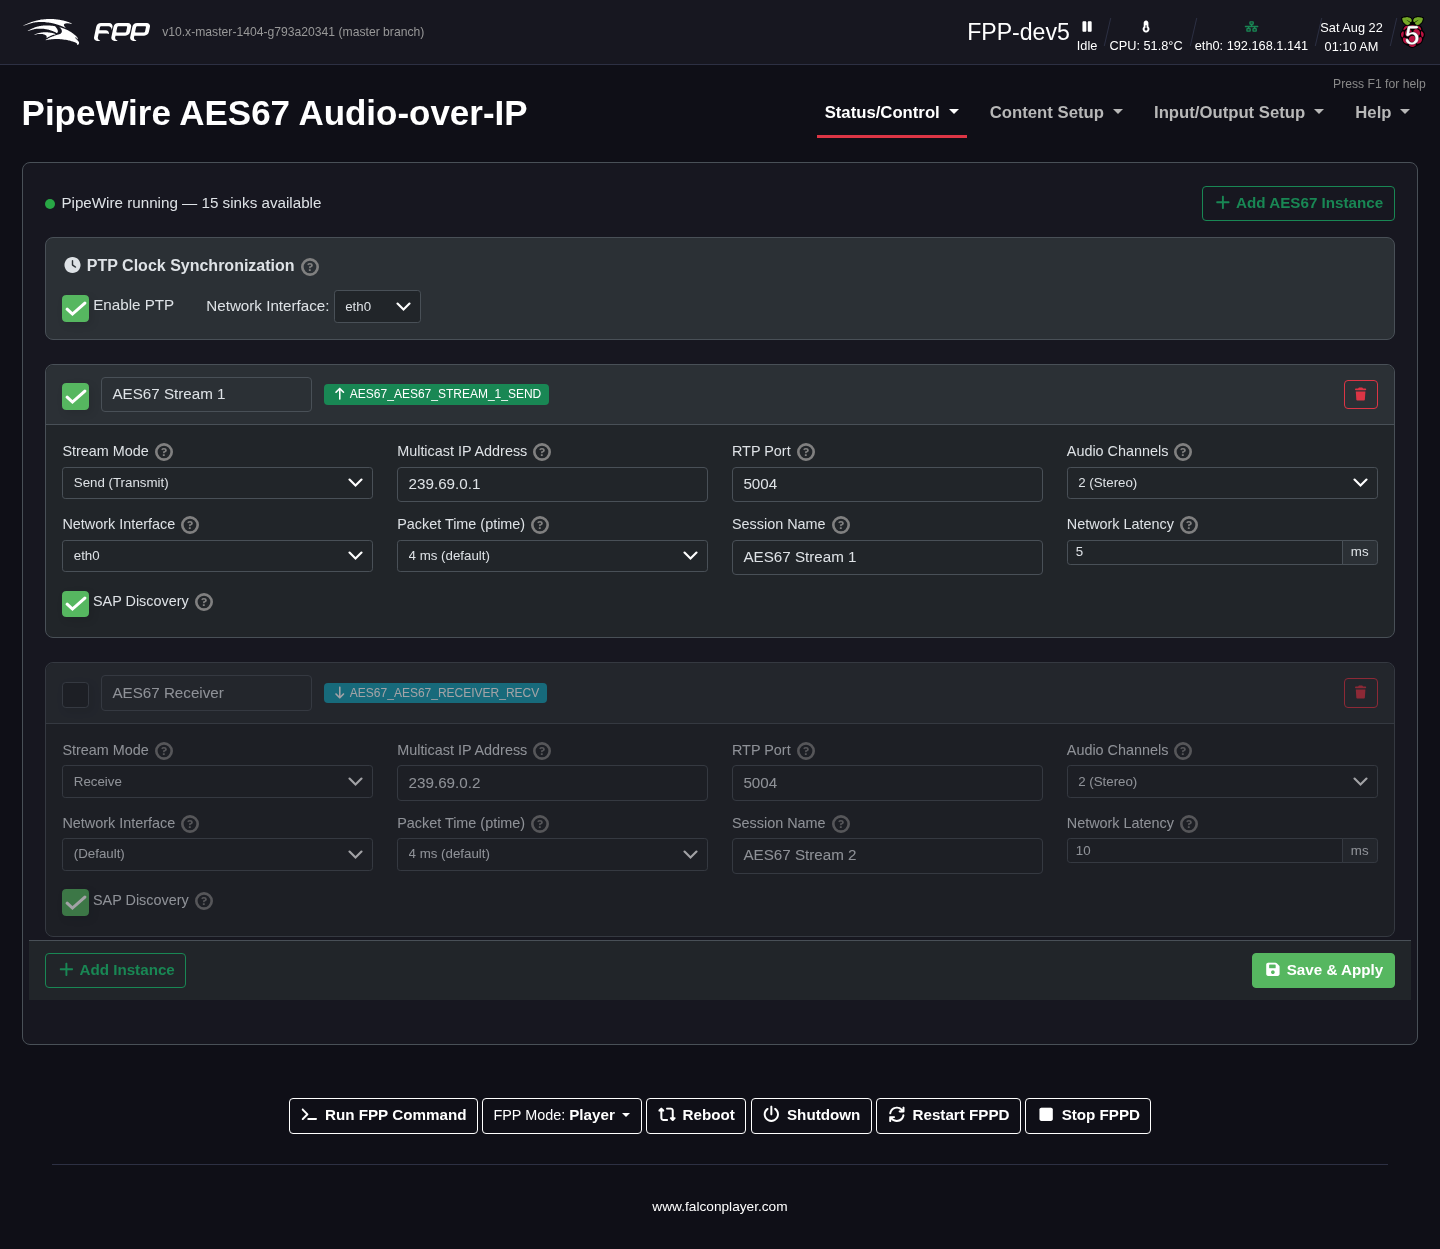
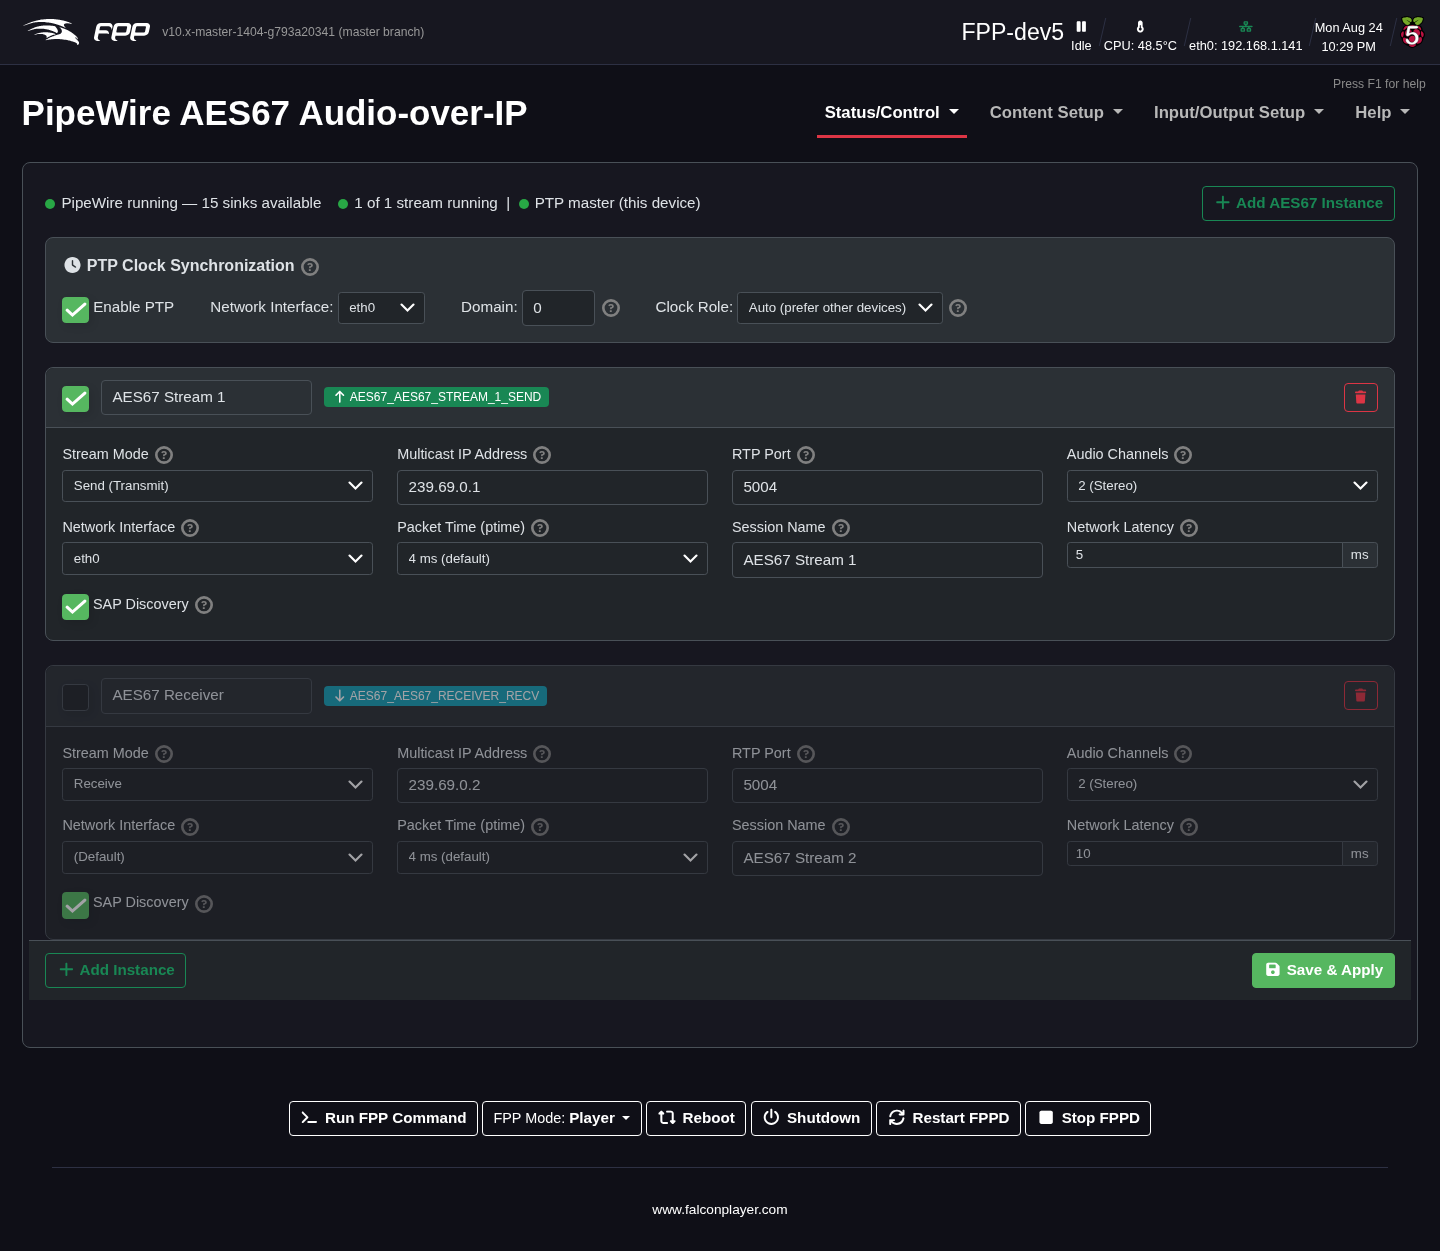
Enhance documentation for AES67 and Opus RTP audio streaming: expand configuration details, add PTP clock settings, and clarify instance management; update images for better clarity.

diff --git a/chapters/27-pipewire-pipeline.md b/chapters/27-pipewire-pipeline.md
@@ -106,15 +106,88 @@ confirming that audio and video are flowing where you expect.
 
 *Audio/Video → Configure AES67 Instances.*
 
-![AES67 Audio‑over‑IP configuration.](images/aes67-config.png)
+![AES67 Audio‑over‑IP configuration: the global PTP clock settings above a send and
+a receive instance.](images/aes67-config.png)
 
 **AES67** streams uncompressed, PTP‑synchronised audio over the network as
-multicast RTP — the professional standard used by many audio devices. Each **AES67
-instance** you define appears as a virtual sink you can add to an audio output
-group (so per‑card **delay and EQ apply to it too**). FPP announces streams via SAP
-and derives RTP timestamps from a PTP clock, so compliant receivers discover and
-lock to them automatically. Typical settings per instance are the **multicast
-address** and **port** (default `239.69.0.x:5004`), channel count and format.
+multicast RTP — the professional standard used by many consoles, DSPs and powered
+speakers. Each **AES67 instance** you define appears in the PipeWire graph as a
+virtual sink (Send) or a virtual source (Receive), so you can add it to an audio
+output group and per‑card **delay and EQ apply to it too**. FPP announces streams
+via SAP and derives RTP timestamps from a PTP clock, so compliant receivers
+discover and lock to them automatically.
+
+Click **Add AES67 Instance** to create one, and **Save & Apply** to rebuild the
+pipeline. The page requires **Media Backend** to be set to **PipeWire (Advanced)**;
+otherwise it shows a notice instead of the settings.
+
+### Stream status
+
+The status line at the top of the page reports PipeWire's state, **how many of the
+configured streams are actually running**, the PTP clock state, and how many AES67
+streams have been **discovered** on the network. It refreshes every ten seconds, so
+it is worth watching for the first minute after FPPD starts — PTP moves from
+*listening* to master or follower as the clock election settles.
+
+### PTP clock synchronisation
+
+**PTP** (IEEE 1588 Precision Time Protocol) provides sample‑accurate clock
+synchronisation between AES67 devices. These settings apply to the whole device,
+not to a single instance:
+
+- **Enable PTP** – run the PTP clock. Enable it when you need tight sync between
+  several FPP instances or with professional AES67 gear.
+- **Network Interface** – which interface the PTP clock runs on. Choose the wired
+  Ethernet interface; **(Default)** uses the system's primary route.
+- **Domain** – the PTP domain number, **0–127**. Every device that must share a
+  clock has to be on the same domain. AES67 gear normally uses domain **0**, so
+  leave this alone unless your console or DSP is set otherwise.
+- **Clock Role** – who provides the clock:
+    - **Auto (prefer other devices)** – the default. FPP joins the election at a
+      low priority: it becomes the clock when it is the only device on the domain,
+      but yields to a console or DSP that wants the role.
+    - **Follower only (never master)** – FPP never becomes the clock.
+    - **Prefer master** – FPP tries to win the election. Use this only if FPP is
+      meant to be the master clock for the network.
+
+Once PTP is running the status line shows either **PTP master (this device)**, or
+**PTP synced to** the grandmaster's clock ID together with the current offset
+(shown in ns, µs or ms as it settles). If it has not locked yet you get **PTP not
+synced** plus the port state, which is normal for the first few seconds.
+
+> **Tip:** If FPP keeps announcing itself as the clock when you have a proper
+> master on the network, check that both are on the same **Domain** and set FPP's
+> **Clock Role** to *Follower only*.
+
+> **Note:** FPP marks its own traffic for QoS automatically — RTP audio as **AF41**
+> (DSCP 34) and PTP messages as **EF** (DSCP 46), the codepoints AES67 recommends.
+> There is nothing to configure. If the installed PTP software is too old to accept
+> DSCP settings, FPP retries without them and notes it in the log.
+
+### Per‑instance settings
+
+Each instance has a checkbox to enable it, an editable name, a badge showing the
+PipeWire node it creates, and a delete button. Its settings are:
+
+- **Stream Mode** – **Send (Transmit)**, **Receive**, or **Both (Send &
+  Receive)**. Send creates a virtual sink; Receive creates a virtual source.
+- **Multicast IP Address** – the multicast group, from the AES67 `239.69.x.x`
+  range. Give each instance its own address to avoid conflicts.
+- **RTP Port** – the UDP port for RTP traffic; the AES67 default is **5004**. Use
+  different ports if several instances share one multicast address.
+- **Audio Channels** – channels in this stream (standard AES67 allows up to 8;
+  most setups use 2).
+- **Network Interface** – the interface used for the multicast traffic. Wired
+  Ethernet gives the best results.
+- **Packet Time (ptime)** – the packetisation interval: **1 ms** (lower latency,
+  more CPU) or **4 ms** (the default, more widely compatible). It must match at
+  both ends.
+- **Session Name** – the name other devices see in the SAP announcement.
+- **Network Latency** – the target buffer for *receive* streams, in milliseconds
+  (AES67's minimum is 1 ms; 1–20 ms is typical). Lower means less delay but more
+  risk of dropouts on a busy network.
+- **SAP Discovery** – announce sent streams, and auto‑create receive streams from
+  announcements heard on the network.
 
 ## Opus RTP Audio Streaming
 
@@ -122,10 +195,45 @@ address** and **port** (default `239.69.0.x:5004`), channel count and format.
 
 ![Opus RTP audio streaming configuration.](images/opus-rtp-config.png)
 
-**Opus RTP** streams **compressed** (Opus‑encoded) audio over the network — lower
-bandwidth than AES67, useful for distributing audio to remote players or listeners
-where bandwidth is limited. As with AES67, each instance is configured with its
-network address/port and appears in the audio routing.
+**Opus RTP** streams **compressed** (Opus‑encoded) audio over the network — far
+lower bandwidth than AES67 and tolerant of packet loss, which makes it the right
+choice for WiFi links and for remote players or listeners. Like AES67, each
+instance appears in the PipeWire graph and can be used in the audio routing.
+
+Use **unicast** (the receiver's own IP address) over WiFi: most access points send
+multicast at the lowest data rate with no retransmission. On wired networks both
+unicast and multicast (`239.x.x.x`) work well, and multicast lets one sender feed
+several receivers.
+
+The status line next to the PipeWire indicator shows **how many of the configured
+streams are running**, along with the error text for any pipeline that failed to
+start; it refreshes every ten seconds. Previously the page reported only PipeWire's
+own state, so a stream that never started looked the same as a healthy one.
+
+Each instance has:
+
+- **Stream Mode** – **Send (Transmit)**, **Receive** or **Both**.
+- **Destination IP** – the receiver's IP for unicast, or a shared multicast group
+  address for wired multicast.
+- **RTP Port** – the UDP port; the default is **5005**.
+- **Audio Channels** – Opus handles mono and stereo natively; higher counts use
+  multiple Opus streams.
+- **Network Interface** – the interface to send or receive on (e.g. `wlan0` with
+  unicast, `eth0` for either).
+- **Bitrate** – 32 kbps to 320 kbps; **128 kbps** is the default and is ample for
+  stereo music, while 64–96 kbps copes where bandwidth is tight.
+- **Jitter Buffer** – receive‑side buffering in milliseconds: around 50 ms for
+  wired unicast, 100–150 ms for WiFi unicast, more again if you must use WiFi
+  multicast. Higher values add delay but ride out network timing variations.
+- **Forward Error Correction** – Opus in‑band FEC, which adds redundancy so lost
+  packets can be reconstructed. Recommended on WiFi.
+- **Discontinuous Transmission (DTX)** – send fewer packets during silence to save
+  bandwidth, at the cost of slight artefacts when audio resumes.
+- **Expected Packet Loss** – tunes the FEC encoder for the loss rate you expect;
+  5% is typical for WiFi, 0–1% for wired.
+
+> **Note:** Opus RTP audio is marked **AF41** (DSCP 34) automatically, so switches
+> and access points that honour QoS give it priority over bulk traffic.
 
 ## Video Output Groups
 

diff --git a/chapters/95-appendix-protocols.md b/chapters/95-appendix-protocols.md
@@ -25,9 +25,14 @@ cape/hat rather than a network protocol (see *Capes* appendix).
 | 4048 | DDP | Distributed Display Protocol |
 | 32320 / 32328 | FPP MultiSync | Player→remote sync and discovery |
 | 1883 | MQTT | Broker connection (configurable) |
+| 5004 | AES67 (RTP) | Uncompressed audio‑over‑IP (default, per instance) |
+| 5005 | Opus RTP | Compressed audio streaming (default, per instance) |
+| 9875 | SAP | AES67 stream announcement/discovery |
+| 319 / 320 | PTP (IEEE 1588) | AES67 clock synchronisation |
 
-(Ports for AES67 and Opus RTP audio streaming are configured on *FPP Settings →
-Audio/Video*.)
+(The audio streaming ports are per instance and are set on the AES67 and Opus RTP
+pages reached from *FPP Settings → Audio/Video*; PTP's domain and clock role are
+set there too.)
 
 ## The FPP API
 

diff --git a/chapters/26-fpp-settings.md b/chapters/26-fpp-settings.md
@@ -133,7 +133,9 @@ The **Audio/Video** tab is substantially expanded in FPP 10, which uses a
 - **PipeWire Audio** – **Configure Input Mixing (Mix Buses)** and **Configure
   Output Audio Groups** to combine and split audio across multiple outputs.
 - **PipeWire Network Streams** – **AES67 Audio‑over‑IP** and **Opus RTP Audio
-  Streaming** for sending/receiving audio over the network.
+  Streaming** for sending/receiving audio over the network. The AES67 page also
+  holds the device‑wide **PTP clock** settings (enable, interface, domain and
+  clock role), and both pages show live per‑stream status.
 - **PipeWire Video** – **Configure Video Input Sources** and **Configure Video
   Output Groups** for HDMI/video routing and video‑to‑pixel mapping.
 
